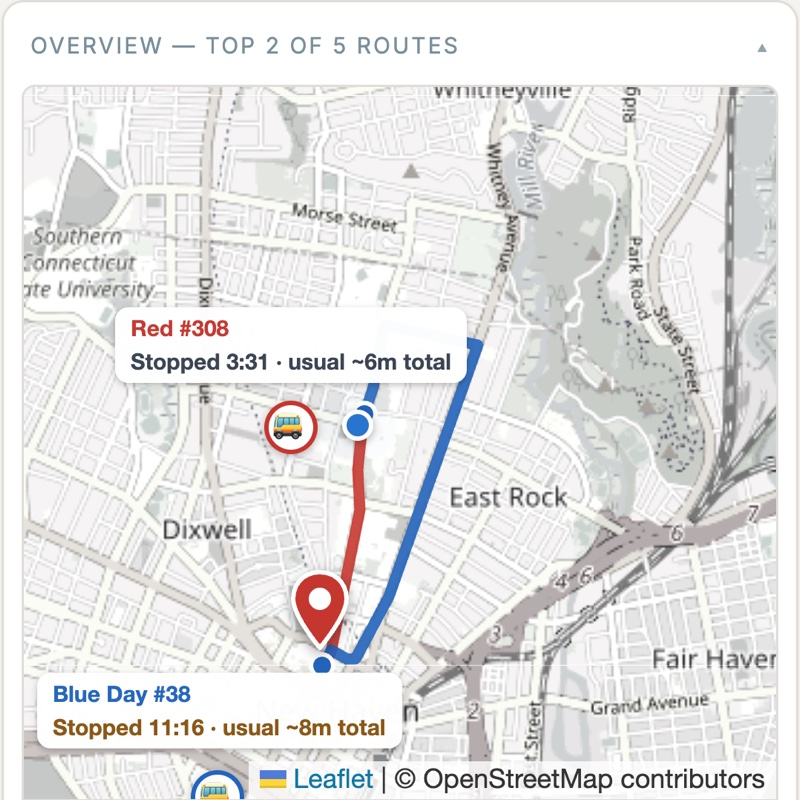
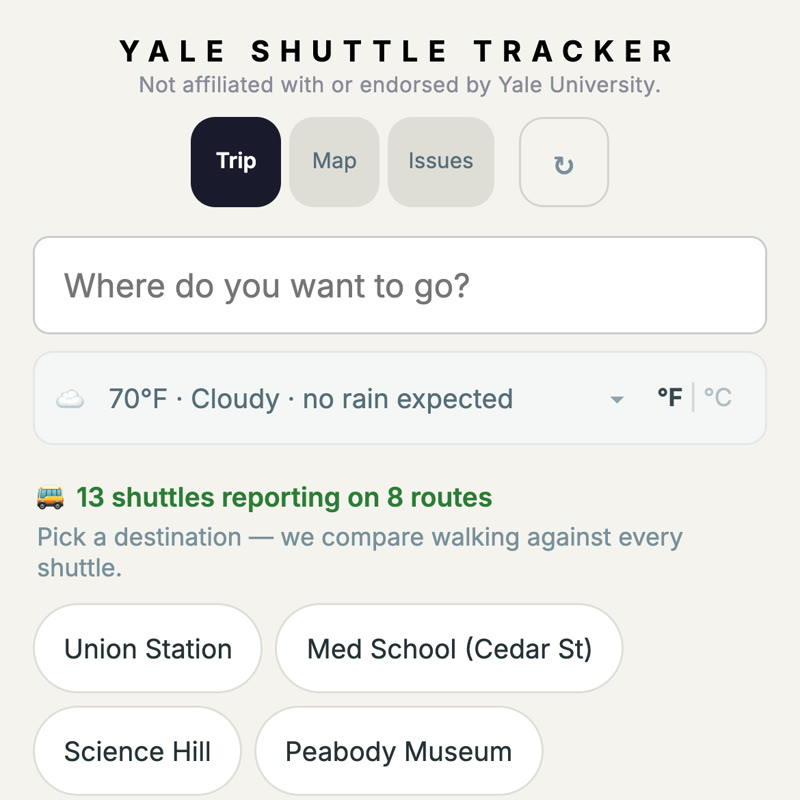
Yale Shuttle Tracker: landing page as main photo; landing + trip card on project page

diff --git a/projects/yale-shuttle.html b/projects/yale-shuttle.html
@@ -20,7 +20,7 @@
   </nav>
 </header>
 
-<div class="project-hero" style="background-image: url('../images/yale-shuttle.jpg'); background-position: 50% 45%;"></div>
+<div class="project-hero" style="background-image: url('../images/yale-shuttle.jpg'); background-position: 50% 30%;"></div>
 <main class="project-page">
   <aside class="sidebar">
     <a class="back" href="../index.html#projects">&lsaquo; Projects</a>
@@ -29,7 +29,7 @@
   </aside>
   <article>
     <h1>Yale Shuttle Tracker</h1>
-    <p>A live map, stop-by-stop arrival times and a trip planner for Yale's Downtowner shuttles. It polls the shuttle GPS feed every 5 seconds and builds its own history of arrivals, dwell times and travel times between stops. Predictions are calibrated from what the buses actually did on that stretch of route at that hour and day of the week, not from the published timetable. The planner routes between any two points, including the walking legs.</p><p>A single Node service (Hono, SQLite) with a React front end, plus automated map and data checks that catch bad predictions before riders see them.</p><figure class="project-shot"><img src="../images/yale-shuttle-trip.png" alt="Trip card for Division / Prospect to Schwarzman Center: Red and Blue Day options on a map, with board-in and arrival times next to walking."></figure>
+    <p>A live map, stop-by-stop arrival times and a trip planner for Yale's Downtowner shuttles. It polls the shuttle GPS feed every 5 seconds and builds its own history of arrivals, dwell times and travel times between stops. Predictions are calibrated from what the buses actually did on that stretch of route at that hour and day of the week, not from the published timetable. The planner routes between any two points, including the walking legs.</p><p>A single Node service (Hono, SQLite) with a React front end, plus automated map and data checks that catch bad predictions before riders see them.</p><figure class="project-shot"><img src="../images/yale-shuttle-landing.png" alt="Landing page: a &#x27;Where do you want to go?&#x27; search box, live weather, how many shuttles are reporting, and one-tap destinations like Union Station and Science Hill."></figure><figure class="project-shot"><img src="../images/yale-shuttle-trip.png" alt="Trip card for Division / Prospect to Schwarzman Center: Red and Blue Day options on a map, with board-in and arrival times next to walking."></figure>
   </article>
 </main>
 <footer class="site-footer">&copy; 2026 Garrett Warren</footer>

diff --git a/index.html b/index.html
@@ -52,7 +52,7 @@
         </div>
       </a>
       <a class="tile" href="projects/yale-shuttle.html">
-        <div class="tile-head" style="background-image: url('images/yale-shuttle.jpg'); background-position: 50% 45%;"></div>
+        <div class="tile-head" style="background-image: url('images/yale-shuttle.jpg'); background-position: 50% 30%;"></div>
         <div class="tile-body">
           <h2 class="tile-title">Yale Shuttle Tracker</h2>
           <p class="tile-excerpt">A live map, stop-by-stop arrival times and a trip planner for Yale&#x27;s Downtowner shuttles, predicted from what the buses actually did.</p>

diff --git a/style.css b/style.css
@@ -266,6 +266,7 @@ main {
 
 .project-shot { margin: 32px 0 0; }
 .project-shot img { display: block; width: 100%; max-width: 380px; height: auto; }
+.project-shot + .project-shot { margin-top: 24px; }
 
 .project-page {
   display: grid;
